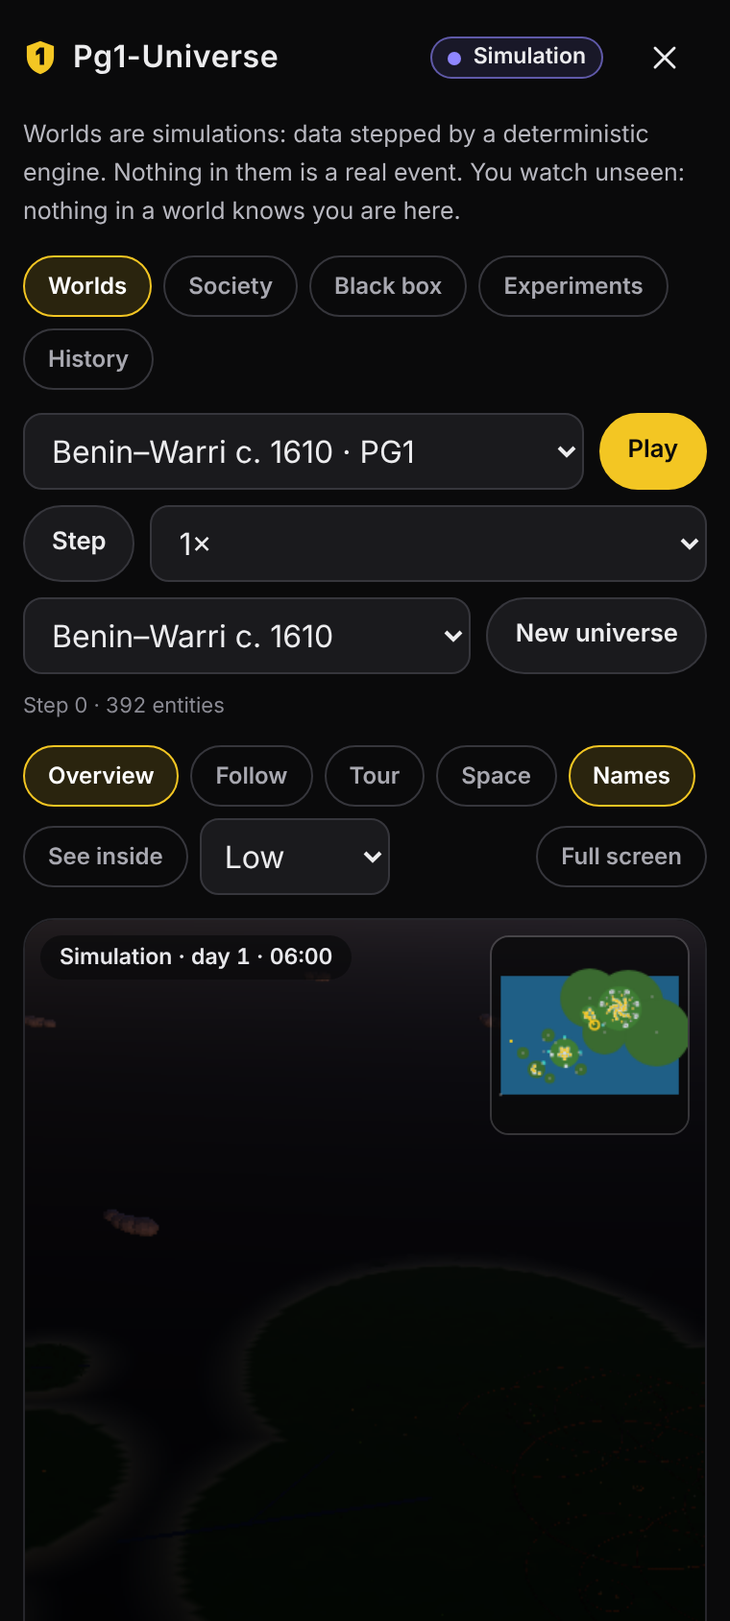
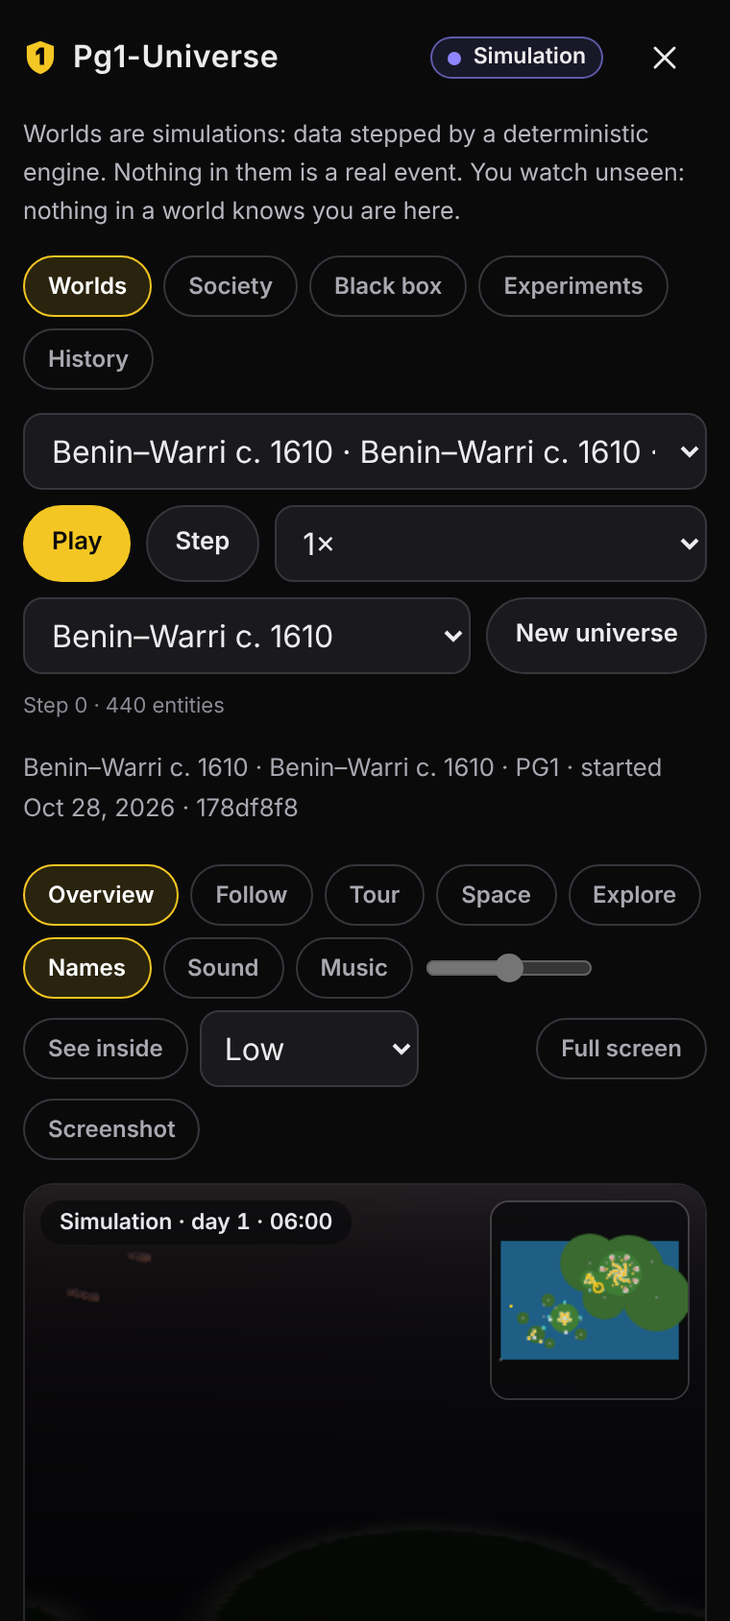
Sandbox: Benin's markets and animals; play without stalls
Benin–Warri c. 1610 gets two markets, small forest cattle by the villages,
goats and fowl at the compounds and two horses at the palace, each sourced
in docs/sandbox-benin-warri.md (Warri: none found, so none added). The move
rule takes an optional range so grazing animals stay near home. Horse, cow
and goat get a grazer's head: neck, long head, muzzle, horns or mane.

The viewer's play loop now takes one step at a time and glides over the
real gap between steps, so people no longer stop mid-walk on slow steps.

Claude-Session: https://claude.ai/code/session_01X8yNKD7DC4DK1j5VkKWxPP

diff --git a/public/sandbox/models.js b/public/sandbox/models.js
@@ -18,7 +18,7 @@ import { PERIOD_CLASS, PERIOD_FIXED, periodModel } from './period-models.js';
 // The viewer's copy of the catalogue's classes (lib/sandbox/catalog.mjs).
 export const KIND_CLASS = {
   person: 'person', child: 'person', astronaut: 'person', alien: 'person',
-  dog: 'animal', cat: 'animal', rabbit: 'animal', fox: 'animal', deer: 'animal', horse: 'animal', cow: 'animal', bird: 'animal', fish: 'animal',
+  dog: 'animal', cat: 'animal', rabbit: 'animal', fox: 'animal', deer: 'animal', horse: 'animal', cow: 'animal', goat: 'animal', fowl: 'animal', bird: 'animal', fish: 'animal',
   grass: 'plant', flower: 'plant', bush: 'plant', tree: 'plant', pine: 'plant', palm: 'plant', crop: 'plant',
   police_station: 'building', prison: 'building', hotel: 'building', cinema: 'building', theatre: 'building', bar: 'building', stadium: 'building',
   beach: 'structure', amusement: 'structure', port: 'structure', monument: 'structure', island: 'structure', ferry: 'vehicle',
@@ -185,13 +185,16 @@ function quadruped(T, o) {
   const { len, h, w, color, belly = color, head = color, ear = null, tail = null, legColor = color } = o;
   k.capsule(w / 2, len - w, color, 0, h, 0, { rz: Math.PI / 2 });
   k.box(len * 0.6, w * 0.4, w * 0.8, belly, 0, h - w * 0.35, 0);
-  k.sphere(w * 0.55, head, len / 2 + w * 0.15, h + w * 0.45, 0, { sx: 1.25 });
-  k.cone(w * 0.22, w * 0.5, 8, head, len / 2 + w * 0.75, h + w * 0.38, 0, { rz: -Math.PI / 2 });    // snout
-  k.sphere(w * 0.08, '#111', len / 2 + w * 0.42, h + w * 0.6, w * 0.25);
-  k.sphere(w * 0.08, '#111', len / 2 + w * 0.42, h + w * 0.6, -w * 0.25);
-  if (ear === 'long') { k.box(w * 0.15, w * 1.1, w * 0.3, head, len / 2, h + w * 1.3, w * 0.18, { rz: 0.15 }); k.box(w * 0.15, w * 1.1, w * 0.3, head, len / 2, h + w * 1.3, -w * 0.18, { rz: 0.15 }); }
-  else if (ear === 'antlers') { for (const z of [w * 0.25, -w * 0.25]) { k.cyl(0.03, 0.04, w * 1.4, 6, '#6d4c2f', len / 2 + w * 0.1, h + w * 1.5, z, { rx: z > 0 ? -0.35 : 0.35 }); k.cyl(0.02, 0.03, w * 0.6, 6, '#6d4c2f', len / 2 + w * 0.3, h + w * 1.6, z * 1.6, { rz: -0.8 }); } }
-  else if (ear) { k.cone(w * 0.16, w * 0.35, 6, ear, len / 2 + w * 0.05, h + w * 0.95, w * 0.28); k.cone(w * 0.16, w * 0.35, 6, ear, len / 2 + w * 0.05, h + w * 0.95, -w * 0.28); }
+  if (o.neck) grazerHead(k, o);
+  else {
+    k.sphere(w * 0.55, head, len / 2 + w * 0.15, h + w * 0.45, 0, { sx: 1.25 });
+    k.cone(w * 0.22, w * 0.5, 8, head, len / 2 + w * 0.75, h + w * 0.38, 0, { rz: -Math.PI / 2 });    // snout
+    k.sphere(w * 0.08, '#111', len / 2 + w * 0.42, h + w * 0.6, w * 0.25);
+    k.sphere(w * 0.08, '#111', len / 2 + w * 0.42, h + w * 0.6, -w * 0.25);
+    if (ear === 'long') { k.box(w * 0.15, w * 1.1, w * 0.3, head, len / 2, h + w * 1.3, w * 0.18, { rz: 0.15 }); k.box(w * 0.15, w * 1.1, w * 0.3, head, len / 2, h + w * 1.3, -w * 0.18, { rz: 0.15 }); }
+    else if (ear === 'antlers') { for (const z of [w * 0.25, -w * 0.25]) { k.cyl(0.03, 0.04, w * 1.4, 6, '#6d4c2f', len / 2 + w * 0.1, h + w * 1.5, z, { rx: z > 0 ? -0.35 : 0.35 }); k.cyl(0.02, 0.03, w * 0.6, 6, '#6d4c2f', len / 2 + w * 0.3, h + w * 1.6, z * 1.6, { rz: -0.8 }); } }
+    else if (ear) { k.cone(w * 0.16, w * 0.35, 6, ear, len / 2 + w * 0.05, h + w * 0.95, w * 0.28); k.cone(w * 0.16, w * 0.35, 6, ear, len / 2 + w * 0.05, h + w * 0.95, -w * 0.28); }
+  }
   if (tail) k.cone(w * 0.2, len * 0.45, 8, tail, -len / 2 - len * 0.15, h + w * 0.1, 0, { rz: Math.PI / 2 + 0.5 });
   if (o.spots) for (let i = 0; i < 5; i++) k.sphere(w * 0.32, o.spots, (i - 2) * len * 0.18, h + w * 0.35, (i % 2 ? 1 : -1) * w * 0.33, { sy: 0.7, sz: 0.4 });
   const legs = [];
@@ -199,6 +202,41 @@ function quadruped(T, o) {
     legs.push(partOf(T, (q) => { q.cyl(w * 0.13, w * 0.1, h, 6, legColor, 0, -h / 2, 0); q.box(w * 0.24, h * 0.08, w * 0.22, '#2a1d14', w * 0.04, -h, 0); }, [x, h, z], role));
   }
   return { ...k.build(), parts: legs, size: len * 1.4 };
+}
+
+// A grazer's head (horse, cow, goat): a neck rising forward from the
+// shoulders, a long head angled down to a darker muzzle, small ears, and
+// horns (o.horns 'cow' curve out and up, 'goat' sweep back) or a mane.
+function grazerHead(k, o) {
+  const { len, h, w, color, head = color } = o;
+  const a = o.neckTilt ?? 0.75;                     // from upright, towards the front
+  const bx = len / 2 - w * 0.15, by = h + w * 0.15;
+  const tx = bx + Math.sin(a) * o.neck, ty = by + Math.cos(a) * o.neck;
+  k.cyl(w * 0.28, w * 0.4, o.neck + w * 0.3, 8, color, (bx + tx) / 2, (by + ty) / 2, 0, { rz: -a });
+  if (o.mane) k.box(w * 0.12, o.neck + w * 0.2, w * 0.14, o.mane, (bx + tx) / 2 - w * 0.22 * Math.cos(a), (by + ty) / 2 + w * 0.22 * Math.sin(a), 0, { rz: -a });
+  const hr = w * (o.headR ?? 0.3), hl = o.headLen ?? 1.9, d = -0.55;   // the head points forward and down
+  const hx = tx + Math.cos(d) * hr * hl * 0.55, hy = ty + Math.sin(d) * hr * hl * 0.55;
+  k.sphere(hr, head, hx, hy, 0, { sx: hl, sz: 0.85, rz: d });
+  k.sphere(hr * 0.72, o.muzzle || '#2b211b', hx + Math.cos(d) * hr * hl * 0.85, hy + Math.sin(d) * hr * hl * 0.85, 0, { sx: 1.1 });
+  for (const z of [hr * 0.7, -hr * 0.7]) {
+    k.sphere(hr * 0.16, '#111', tx + hr * 0.35, ty + hr * 0.2, z);
+    k.cone(hr * 0.28, hr * 0.8, 6, head, tx - hr * 0.2, ty + hr * 0.75, z * 1.15, { rx: z > 0 ? 0.5 : -0.5 });
+    if (o.horns === 'cow') k.cone(hr * 0.16, hr * 1.4, 6, '#e8dcc0', tx, ty + hr * 0.9, z * 1.9, { rx: z > 0 ? 1.0 : -1.0 });
+    if (o.horns === 'goat') k.cone(hr * 0.14, hr * 1.6, 6, '#6d5d4b', tx - hr * 0.5, ty + hr * 1.1, z * 0.6, { rz: 0.9 });
+  }
+}
+
+// A hen: a round body, a cocked tail, a red comb, a beak, two legs.
+function fowl(T, p) {
+  const k = new Kit(T);
+  const c = col(p.color, '#8d4a24');
+  k.sphere(0.16, c, 0, 0.28, 0, { sx: 1.3, sy: 1.05 });
+  k.sphere(0.09, c, 0.17, 0.42, 0);
+  k.box(0.08, 0.08, 0.02, '#c62828', 0.18, 0.53, 0);
+  k.cone(0.025, 0.06, 6, '#f9a825', 0.27, 0.42, 0, { rz: -Math.PI / 2 });
+  k.cone(0.09, 0.16, 6, c, -0.2, 0.36, 0, { rz: 0.9 });
+  for (const z of [0.05, -0.05]) k.cyl(0.012, 0.012, 0.14, 4, '#f9a825', 0.02, 0.07, z);
+  return { ...k.build(), parts: [], size: 0.5 };
 }
 
 function bird(T, p, seed) {
@@ -1353,8 +1391,13 @@ export function buildModel(T, kind, p = {}, id = '') {
     case 'rabbit': return quadruped(T, { len: 0.45, h: 0.18, w: 0.24, color: '#bcaaa4', belly: '#efebe9', ear: 'long', tail: '#fafafa' });
     case 'fox': return quadruped(T, { len: 0.9, h: 0.4, w: 0.28, color: '#e65100', belly: '#fafafa', ear: '#e65100', tail: '#e65100', legColor: '#3e2723' });
     case 'deer': return quadruped(T, { len: 1.5, h: 0.9, w: 0.42, color: '#8d6e63', belly: '#d7ccc8', ear: 'antlers', tail: '#efebe9' });
-    case 'horse': return quadruped(T, { len: 2.2, h: 1.2, w: 0.6, color: '#5d4037', ear: '#5d4037', tail: '#212121', legColor: '#4e342e' });
-    case 'cow': return quadruped(T, { len: 2.2, h: 0.9, w: 0.8, color: '#fafafa', spots: '#212121', ear: '#fafafa', tail: '#fafafa', head: '#fafafa' });
+    case 'horse': { const c = col(p.color, '#5d4037'); return quadruped(T, { len: 2.2, h: 1.2, w: 0.6, color: c, ear: c, tail: '#212121', legColor: c === '#5d4037' ? '#4e342e' : c, neck: 0.85, neckTilt: 0.55, headR: 0.32, headLen: 2.1, mane: '#212121' }); }
+    // A cow with a colour of its own is a small forest beast (the benin-warri
+    // template's), plain and short-legged; otherwise black and white.
+    case 'cow': if (p.color) { const c = col(p.color, '#3e2723'); return quadruped(T, { len: 1.6, h: 0.65, w: 0.62, color: c, ear: c, tail: c, head: c, neck: 0.3, neckTilt: 1.1, headR: 0.34, headLen: 1.6, horns: 'cow' }); }
+      return quadruped(T, { len: 2.2, h: 0.9, w: 0.8, color: '#fafafa', spots: '#212121', ear: '#fafafa', tail: '#fafafa', head: '#fafafa' });
+    case 'goat': { const c = col(p.color, '#e8e0d0'); return quadruped(T, { len: 0.85, h: 0.48, w: 0.3, color: c, ear: c, tail: c, head: c, neck: 0.25, neckTilt: 0.6, headR: 0.36, headLen: 1.7, muzzle: c, horns: 'goat' }); }
+    case 'fowl': return fowl(T, p);
     case 'fish': return quadruped(T, { len: 0.5, h: 0.05, w: 0.15, color: '#4fc3f7' });
     case 'bird': return bird(T, p, seed);
     case 'tree': return tree(T, p, seed);

diff --git a/public/sandbox/period-models.js b/public/sandbox/period-models.js
@@ -12,9 +12,9 @@
 export const PERIOD_CLASS = Object.freeze({
   canoe: 'vehicle', carrack: 'vehicle', gate: 'structure', compound: 'building', palace: 'building', brass_workshop: 'building', ivory_workshop: 'building', fishing_village: 'building',
   shrine: 'structure', earthwork: 'structure', canoe_landing: 'structure', anchorage: 'structure', royal_tomb: 'structure', heritage_site: 'structure',
-  mangrove: 'structure', forest: 'structure', river: 'structure', creek: 'structure', chronicle: 'structure', porter: 'person', visitor: 'person'
+  mangrove: 'structure', forest: 'structure', river: 'structure', creek: 'structure', chronicle: 'structure', porter: 'person', visitor: 'person', market: 'building'
 });
-export const PERIOD_FIXED = Object.freeze(['gate', 'compound', 'palace', 'brass_workshop', 'ivory_workshop', 'fishing_village', 'shrine', 'earthwork', 'canoe_landing', 'anchorage', 'royal_tomb', 'heritage_site', 'mangrove', 'forest', 'river', 'creek', 'chronicle']);
+export const PERIOD_FIXED = Object.freeze(['market', 'gate', 'compound', 'palace', 'brass_workshop', 'ivory_workshop', 'fishing_village', 'shrine', 'earthwork', 'canoe_landing', 'anchorage', 'royal_tomb', 'heritage_site', 'mangrove', 'forest', 'river', 'creek', 'chronicle']);
 // Drawn by waterways.js (or not at all), not as a model.
 export const PERIOD_GROUND = Object.freeze(['mangrove', 'forest', 'river', 'creek', 'chronicle', 'anchorage']);
 
@@ -111,6 +111,24 @@ export function periodModel(T, Kit, kind, p = {}, seed = 0) {
       for (const x of [9, 11]) k.cyl(0.05, 0.05, 2.4, 6, WOOD_D, x, 1.2, -1); k.box(2.2, 1.6, 0.02, '#cfc6a8', 10, 1.4, -1, { layer: 'glass' });
       for (const x of [-9, -4]) k.capsule(0.4, 5, WOOD, x, 0.3, 9, { rz: Math.PI / 2, sy: 0.55 });
       return out(k, { size: 30 });
+    }
+    case 'market': {
+      // Stalls along both sides of a street: thatch on posts, and under each
+      // a mat with goods (pots, cloth, baskets, ivory), the street bare earth.
+      k.box(34, 0.04, 9, '#9c7a52', 0, 0.02, 0);
+      const goods = ['#7a4a2a', '#c62828', '#c9a227', '#efe6d2', '#1565c0', '#6a9a3a'];
+      for (const side of [-1, 1]) for (let i = 0; i < 6; i++) {
+        const x = -14 + i * 5.6; const z = side * 6.5;
+        for (const [dx, dz] of [[-1.8, -1.4], [1.8, -1.4], [-1.8, 1.4], [1.8, 1.4]]) k.cyl(0.07, 0.09, 2.3, 6, WOOD_D, x + dx, 1.15, z + dz);
+        k.prism([[-1.9, 0], [1.9, 0], [0, 0.9]], 4.4, (i + side) % 2 ? THATCH : THATCH_D, x, 2.3, z, { ry: Math.PI / 2, jitter: 0.08 });
+        k.box(3.2, 0.03, 2.2, '#c8a96e', x, 0.03, z);
+        const g = goods[(i * 2 + (side > 0 ? 1 : 0)) % goods.length];
+        if (g === '#7a4a2a') for (let j = 0; j < 4; j++) k.lathe([[0, 0], [0.2, 0.04], [0.26, 0.24], [0.16, 0.44], [0.18, 0.48]], 10, j % 2 ? '#7a4a2a' : '#5d3a1e', x - 1.1 + j * 0.7, 0.03, z);
+        else if (g === '#efe6d2') for (let j = 0; j < 3; j++) k.cyl(0.07, 0.12, 1.2, 8, g, x - 0.6 + j * 0.6, 0.12, z, { rz: Math.PI / 2 });
+        else if (g === '#c9a227' || g === '#6a9a3a') for (let j = 0; j < 3; j++) k.cyl(0.32, 0.24, 0.3, 10, g === '#c9a227' ? '#b8913a' : '#8d6e3f', x - 0.9 + j * 0.9, 0.18, z, { open: true });
+        else for (let j = 0; j < 3; j++) k.box(0.7, 0.12 + j * 0.02, 0.5, g, x - 0.8 + j * 0.8, 0.09 + j * 0.03, z);
+      }
+      return out(k, { size: 34 });
     }
     case 'shrine': {
       // A low thatched shelter over an earth altar with pots and white chalk.

diff --git a/public/index.html b/public/index.html
@@ -3822,7 +3822,7 @@
     // only; the scene module is loaded only here. Step calls step_world on
     // PG1's own worlds; an invited agent's world is read only.
     var sandboxScene = null;
-    var sandboxPlayTimer = null;
+    var sandboxPlayTimer = null; var sandboxPlayRun = 0;
     var sandboxState = { worlds: [], worldId: null, world: null };
     async function sandboxRequest(payload) {
       const res = await fetch('/api/sandbox', { method: 'POST', headers: { 'Content-Type': 'application/json' }, body: JSON.stringify({ ...payload, user: sessionUser, pass: sessionPass }) });
@@ -3890,7 +3890,10 @@
     }
     // Play speed: 1× is one step every 1.2 s; the scene glides between steps.
     var sandboxSpeed = 1;
-    function sandboxStepMs() { return Math.round(1200 / sandboxSpeed); }
+    // While playing: how long a step really takes to come back (smoothed), so
+    // a step glides over that long and walkers do not stop between steps.
+    var sandboxGlideMs = 0;
+    function sandboxStepMs() { return Math.max(Math.round(1200 / sandboxSpeed), Math.min(4000, sandboxGlideMs)); }
     function setSandboxSpeed(v) { sandboxSpeed = [1, 2, 4].includes(Number(v)) ? Number(v) : 1; if (sandboxPlayTimer) { stopSandboxPlay(); toggleSandboxPlay(); } }
     // Quality: Auto (from the device, lowered when frames run slow) or a tier kept on this device.
     function markSandboxQuality(q) {
@@ -4164,7 +4167,7 @@
       }
     }
     function stopSandboxPlay() {
-      clearInterval(sandboxPlayTimer); sandboxPlayTimer = null;
+      clearTimeout(sandboxPlayTimer); sandboxPlayTimer = null; sandboxGlideMs = 0;
       const b = document.getElementById('sandbox-play');
       if (b) { b.textContent = 'Play'; b.setAttribute('aria-pressed', 'false'); }
     }
@@ -4172,7 +4175,19 @@
       if (sandboxPlayTimer) { stopSandboxPlay(); return; }
       const b = document.getElementById('sandbox-play');
       if (b) { b.textContent = 'Pause'; b.setAttribute('aria-pressed', 'true'); }
-      sandboxPlayTimer = setInterval(() => { if (!document.hidden) stepSandboxWorld(1); }, sandboxStepMs());
+      // One step at a time: the next is asked for once this one is back, and
+      // no sooner than the speed allows; never two in flight.
+      const run = ++sandboxPlayRun;
+      const next = async () => {
+        const t0 = performance.now();
+        if (!document.hidden) {
+          await stepSandboxWorld(1);
+          const took = performance.now() - t0;
+          sandboxGlideMs = sandboxGlideMs ? Math.round(sandboxGlideMs * 0.7 + took * 0.3) : Math.round(took);
+        }
+        if (sandboxPlayTimer && run === sandboxPlayRun) sandboxPlayTimer = setTimeout(next, Math.max(0, Math.round(1200 / sandboxSpeed) - (performance.now() - t0)));
+      };
+      sandboxPlayTimer = setTimeout(next, 0);
     }
     const SANDBOX_ANOMALY = { physics: 'a stone fell far too slowly', repetition: 'identical trees in a perfect line', boundary: 'the ground ending in nothing', impossible_object: 'a cube that never changes size', time_skip: 'the sun jumped across the sky', glitch_texture: 'bark repeating in identical squares' };
     const SANDBOX_ANSWER = { suspected_artificial_with_evidence: 'Suspects it is artificial, citing evidence', suspected_artificial_speculation: 'Suspects it is artificial, without evidence', notices_oddities: 'Notices oddities', nothing_strange: 'Nothing strange', no_answer: 'No answer yet' };

diff --git a/docs/sandbox-benin-warri.md b/docs/sandbox-benin-warri.md
@@ -18,6 +18,7 @@ This was compiled from a build environment without access to the books or journa
 - **abstract**: the publisher's abstract or a review was read;
 - **cited**: the claim was found in a secondary work that cites this source (named), not read in the source itself;
 - **secondary**: the claim rests on the named secondary source itself (for example an encyclopaedia article), which is weaker.
+- **search**: the claim was read in a web-search summary of the named page; the page itself could not be opened from the build environment. Weaker than **record**: it should be checked on the page.
 
 A historian should check every **cited** and **secondary** entry against the original pages before this world is presented as accurate (see **Reviewed by** at the end).
 
@@ -44,6 +45,13 @@ A historian should check every **cited** and **secondary** entry against the ori
 | Smarthistory | Smarthistory, "Igun Eronmwon (brass casters' guild)" and "Benin art and its patrons" (smarthistory.org) | record |
 | Alagoa 1972 | E. J. Alagoa, *A History of the Niger Delta: An Historical Interpretation of Ịjọ Oral Tradition*, Ibadan University Press, 1972: in part **oral tradition** | cited (in "The Ijo (Ijaw) People of Delta State", core.ac.uk) |
 | Nok | Goethe University Frankfurt, Nok research project (Peter Breunig, Nicole Rupp); G. Franke, *Potsherds in time: the pottery of the Nigerian Nok Culture and its chronology* (dissertation, Goethe University Frankfurt, 2015) | record; dates cited |
+| Dapper 1668 | Olfert Dapper, *Naukeurige Beschrijvinge der Afrikaensche Gewesten*, Amsterdam, 1668 (English in John Ogilby, *Africa*, London, 1670). **Later than 1610**; Dapper never went to Africa and wrote from others' reports | **search** (quoted in secondary accounts of Benin City) |
+| BM plaques | The British Museum, collection records of the Benin palace plaques: Af1913,1211.1 (a cow held by attendants), Af1898,0115.200 (a leopard seizing a goat), and plaques showing the Oba on horseback; dated 16th–17th century | **search** (the museum's records) |
+| Met plaque | The Metropolitan Museum of Art, "Plaque with equestrian ọba (king) and attendants" (metmuseum.org, collection 310752) | **search** |
+| Penn altar | Penn Museum, *Museum Journal*, "Great Benin Royal Altar" (penn.museum/sites/journal/998), an early-20th-century article | **search**; its framing is of its time |
+| Digital Benin | Digital Benin, "Ọyanyan" (digitalbenin.org/iconography/oyanyan), citing Ryder 1969 | **search** |
+| Law | "African Cavalry" (lrgaf.org), on horses in West Africa's forest zone | **search**, **secondary** |
+| FAO shorthorn | FAO, *The Dwarf West African Shorthorn* (fao.org/4/x5468e); O. A. Adebambo, "The Muturu: a rare sacred breed of cattle in Nigeria" (funaab.edu.ng) | **search** |
 | Wikipedia | Wikipedia articles "Kingdom of Warri", "Ijala", "Atorongboye", "Olu Atuwatse I", "Benin Moat", "Igbesanmwan" (accessed October 2026) | **secondary**, used only where noted |
 
 ## The facts used
@@ -87,6 +95,18 @@ A historian should check every **cited** and **secondary** entry against the ori
 | N1 | In the salt-water belt of the delta, fishing was the occupation of most people, and making salt (from mangrove and from seawater) one of the oldest; the lower delta exchanged fish and salt for the vegetable produce of the upper delta. Mangrove wood was poor for canoes. | an Ijaw settlement of fishers on its own island, trading fish and salt; mangrove as its own land, never built on | Alagoa 1972 (cited; in part oral tradition) |
 | N2 | Moore records Ijaw, Urhobo ("Sobo") and Mahin communities in the region before the Itsekiri kingdom. **Oral tradition.** | Urhobo and Ijaw settlements of their own | Moore 1936 (oral tradition, cited) |
 
+### Animals and markets
+
+| # | fact | used in the world as | source |
+|---|---|---|---|
+| A1 | Benin's palace plaques (16th–17th century) show cattle: one shows a cow held by attendants for a sacrifice. Cattle, goats and fowl were offered at Benin's altars. | small herds of cattle grazing by the village enclosures and their farms | BM plaques (Af1913,1211.1); Penn altar |
+| A2 | The forest zone's cattle were the small West African dwarf shorthorn (muturu), tolerant of the sleeping sickness the tsetse fly carries; it was recorded in West Africa by the first half of the first millennium AD. | the cattle are small and plain (a cow with a colour of its own is drawn short-legged, without the black and white of a modern breed) | FAO shorthorn |
+| A3 | Goats and fowl: a plaque shows a leopard seizing a goat; goats and fowl were offered at altars. | goats at the compounds; fowl in the city's compound yards | BM plaques (Af1898,0115.200); Penn altar |
+| A4 | Horses were rare and royal in Benin: plaques show the Oba on horseback; the king of Portugal sent a horse to the Oba in 1505 and again in 1552; in the forest zone horses lived short lives (the tsetse fly), and Benin's soldiers went on foot. | two horses in the palace grounds, of the Oba's stable; nobody rides them in the world, and nobody else has a horse | BM plaques; Met plaque; Digital Benin (1505, citing Ryder 1969); Law (1552, and the tsetse) |
+| M1 | Dapper (1668, **later than 1610**) describes Benin's streets as long and broad, "in which continual markets are kept". | two markets in Benin City's streets, near the palace, where people buy food, work and meet; what is sold is not named | Dapper 1668 |
+
+Not found, so not in the world: livestock or a market at Warri, among the Urhobo or the Ijaw (see Open questions 3 and 12); the goods sold at Benin's markets in 1610 (a later account that names cattle, cotton, ivory and European wares could not be checked); the Edo four-day market week (found only in modern accounts).
+
 ### Deep history
 
 | # | fact | used in the world as | source |
@@ -121,9 +141,10 @@ Portuguese priests came to this region on trading ships, and were told to suppor
 4. Warri's **council of chiefs** in 1610: no source found for this period. Lloyd 1963 describes a highly centralised government around 1800. The world gives the Olu chiefs at the palace (a job), without naming offices.
 5. **Canoe building** as a craft at Warri c. 1610: no source found. Canoes are used; their building is not modelled.
 6. **Iron working** at Benin c. 1610: no source found in this pass (likely in Bradbury 1957). Not in the world's starting crafts.
-7. **Benin's market**, and the **rainforest** round the capital: no source found in this pass. The land round the capital is drawn as forest; this is scenery, not a claim.
+7. The **rainforest** round the capital: no source found in this pass. The land round the capital is drawn as forest; this is scenery, not a claim. (**Benin's markets** are now sourced, from a later account: M1.)
 8. The **Benin–Warri relationship** in 1610 (above).
 9. **Cassava** (above). 10. The **silver crowns** (above).
+12. **Animals outside Benin** (at Warri, the Urhobo and the Ijaw) c. 1610: no source found in this pass. Not in the world.
 11. **Personal names**: the inhabitants' names are common given names in Edo, Itsekiri, Urhobo, Ịjọ and Portuguese, chosen for the simulation. They should be reviewed by speakers of each language. None is the name of a ruler of either royal house.
 
 ## Reviewed by:

diff --git a/docs/sandbox.md b/docs/sandbox.md
@@ -16,7 +16,7 @@ A deterministic engine steps the world: the same world and seed always give the 
 
 | rule | fields | in plain words |
 |---|---|---|
-| `move` | kind, `velocity {x,y,z}` or `wander` | rabbits wander up to 1 m a step |
+| `move` | kind, `velocity {x,y,z}` or `wander`; with `wander`, `range` (metres) keeps each within that of its `graze_x`, `graze_y` | rabbits wander up to 1 m a step; goats browse within 20 m of home |
 | `spawn` | kind, every, chance, near? | every 5 steps, with a 50% chance, a new grass appears |
 | `decay` / `grow` | kind, property, amount, remove_below? / max? | grass gain 0.5 size a step, up to 5 |
 | `interact` | a, b, radius, effect? / remove? / emit? | when a rabbit comes within 3 m of a grass, the rabbit's energy changes by 1 |
@@ -124,7 +124,7 @@ Any kind name works. The kinds in `lib/sandbox/catalog.mjs` also get a class, a 
 | structures | road, bridge, runway, launch_pad, lake, rock, fence, lamp, fountain |
 | vehicles | bike, motorbike, car, taxi, police_car, bus, truck, tractor, train, boat, ship, plane, small_plane, jet, helicopter, drone, hot_air_balloon, rocket, shuttle |
 | space | space_station, satellite, star, planet, moon, asteroid |
-| c. 1610 (the benin-warri template) | canoe, carrack (a sailing ship), compound, palace, brass_workshop, ivory_workshop, fishing_village, shrine, earthwork, canoe_landing, anchorage, royal_tomb, heritage_site, porter, visitor; and the land and water kinds forest, mangrove, river, creek |
+| c. 1610 (the benin-warri template) | canoe, carrack (a sailing ship), compound, palace, brass_workshop, ivory_workshop, fishing_village, shrine, earthwork, canoe_landing, anchorage, royal_tomb, heritage_site, market, goat, fowl, porter, visitor; and the land and water kinds forest, mangrove, river, creek |
 
 A kind with a suffix counts as its base kind: `car_red` is a car.
 
@@ -194,6 +194,7 @@ A kind with a suffix counts as its base kind: `car_red` is a car.
   - Warri: an island among the creeks and mangroves of the delta. The capital, Ode-Itsekiri, with the Olu's residence, homes and three canoe landings; two fishing villages; the royal burial grove at Ijala.
   - The Urhobo (a farming people, inland, with a landing on a creek) and the Ijaw (fishers and salt makers, on their own island) as settlements of their own.
   - Offshore, two anchorages where a Portuguese merchant ship calls. Its traders are visitors aboard, not a country with a home here.
+  - **Markets and animals** (sourced in the doc, A1–A4 and M1): two markets in Benin City's streets, near the palace (stalls under thatch; people buy food, work and meet there); small forest cattle grazing by the village enclosures, goats at the compounds, fowl in the city's yards, and two horses of the Oba's stable in the palace grounds (rare and royal; nobody rides them). Each animal keeps near its grazing ground (the move rule's `range`). Only in Benin: no source found shows livestock or a market at Warri, the Urhobo or the Ijaw c. 1610, so none is built there.
   - One Nok heritage site (fired-clay finds), labelled with its date range, far older than the world. Benin's people can come upon it (a `discovery` event); no Nok people live here.
   - The terrain module (`lib/sandbox/terrain.mjs`): rivers and creeks are water, mangrove is land of its own type, forest is land.
 - **Period things only:** walking, porters (between the palace and Ughoton), canoes on the creeks and rivers, and the sailing ship at sea. No cars, bikes, planes, rockets or space. Nothing flies or goes to space, and a home gains things of its time (a woven mat, a carved stool, clay pots, a calabash, cloth, a wooden chest, a water jar, a basket), never a sofa or a television.
@@ -358,6 +359,7 @@ Open it from the `/sandbox` or `/world <id>` reply. It is a full-screen view in 
 - **On the view itself,** a badge in the bottom corner says which world you are watching (its name, "your first universe" on the first, and what kind of world it is), and the same full line as in the list is shown over the view.
 - **Labels** show a person's full name.
 - **Play** (1×, 2× or 4×), **Pause**, **Step** and **New universe:** Step calls `step_world`, on PG1's worlds only; invited agents' worlds are read only.
+- **Playing** asks for one step at a time: the next once the last is back, never two at once. When a step takes longer to come back than the speed allows (a slow connection, a busy server), each step glides over as long as steps really take, so people keep walking instead of stopping between steps.
 - **The events timeline, and the rules in plain words.**
 - **The Experiments panel.**
 
